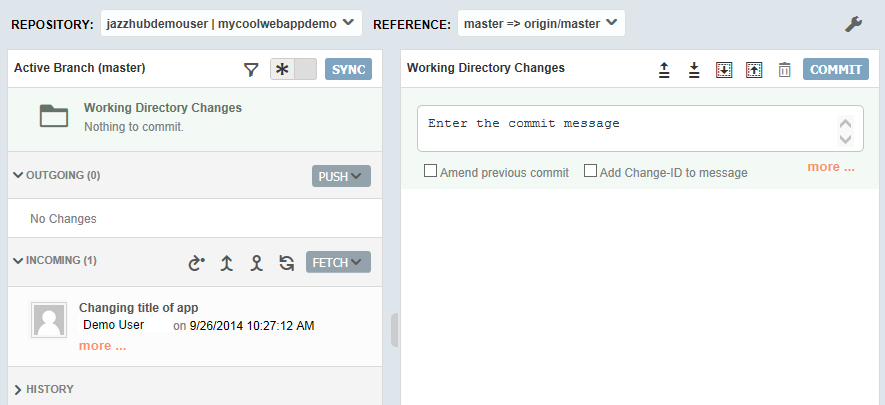
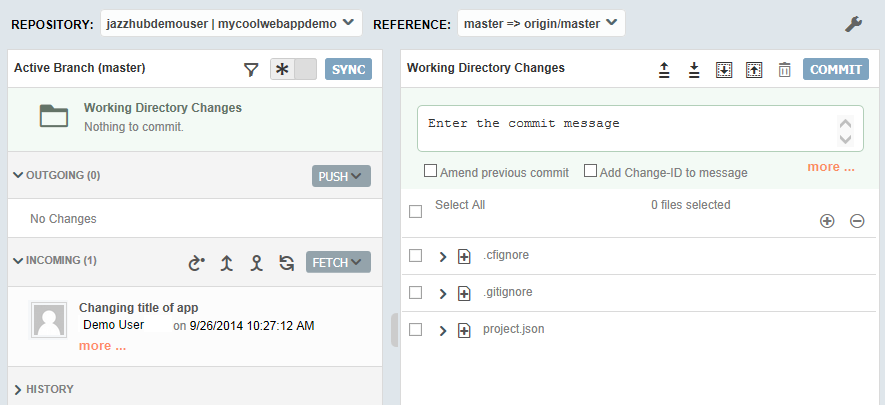
WI 123712: replaced "orion-git-merge.png" so it includes list of changed files and changed text from "merge" to "sync"

diff --git a/tutorials/jazzeditor/index.md b/tutorials/jazzeditor/index.md
@@ -250,7 +250,7 @@ so that it shows in the Web IDE. You merge from the Git Repository page.
 
 ![Orion Git repository icon](/tutorials/jazzeditor/images/orion-git-status.png)
 
-On the Git Repository page, merge the change that you made to the title.
+On the Git Repository page, **SYNC** the change that you made to the title.
 
 ![Orion Git merge](/tutorials/jazzeditor/images/orion-git-merge.png)
 
